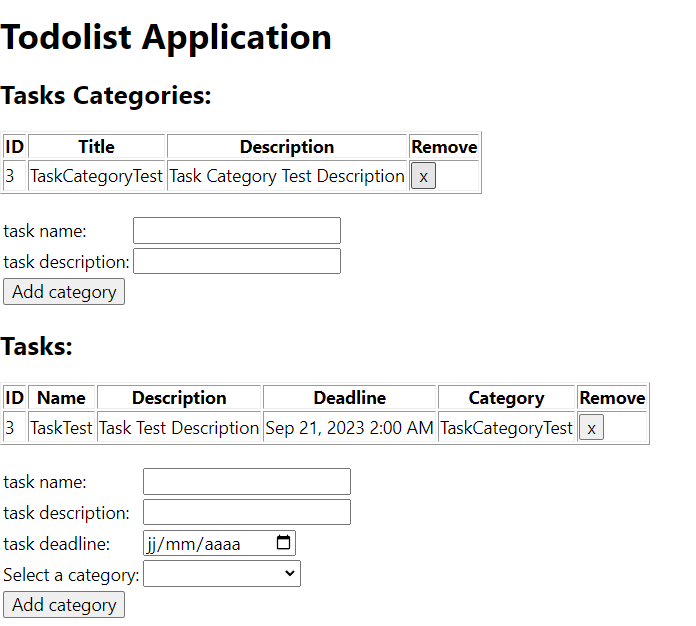
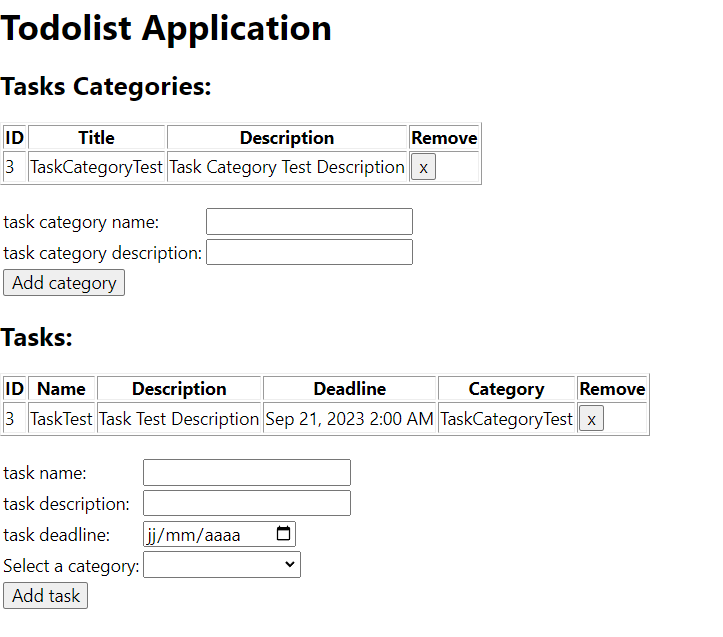
fix typo

diff --git a/front/src/app/task-category/task-category.component.html b/front/src/app/task-category/task-category.component.html
@@ -28,7 +28,7 @@
   <table>
     <tr>
       <td>
-        <label for="new-categoryName">task name: </label>
+        <label for="new-categoryName">task category name: </label>
       </td>
       <td>
         <input #categoryName id="new-categoryName" required/>
@@ -36,7 +36,7 @@
     </tr>
     <tr>
       <td>
-        <label for="new-categoryDescription">task description: </label>
+        <label for="new-categoryDescription">task category description: </label>
       </td>
       <td>
         <input #categoryDescription id="new-categoryDescription" required/>

diff --git a/front/src/app/task/task.component.html b/front/src/app/task/task.component.html
@@ -73,7 +73,7 @@
           (click)="add(taskName.value, taskDescription.value, taskDeadline.value); taskName.value=''; taskDescription.value=''; taskDeadline.value=''; selectedTaskCategoryId = -1;"
           class="add-button"
           type="button">
-          Add category
+          Add task
         </button>
       </td>
     </tr>
